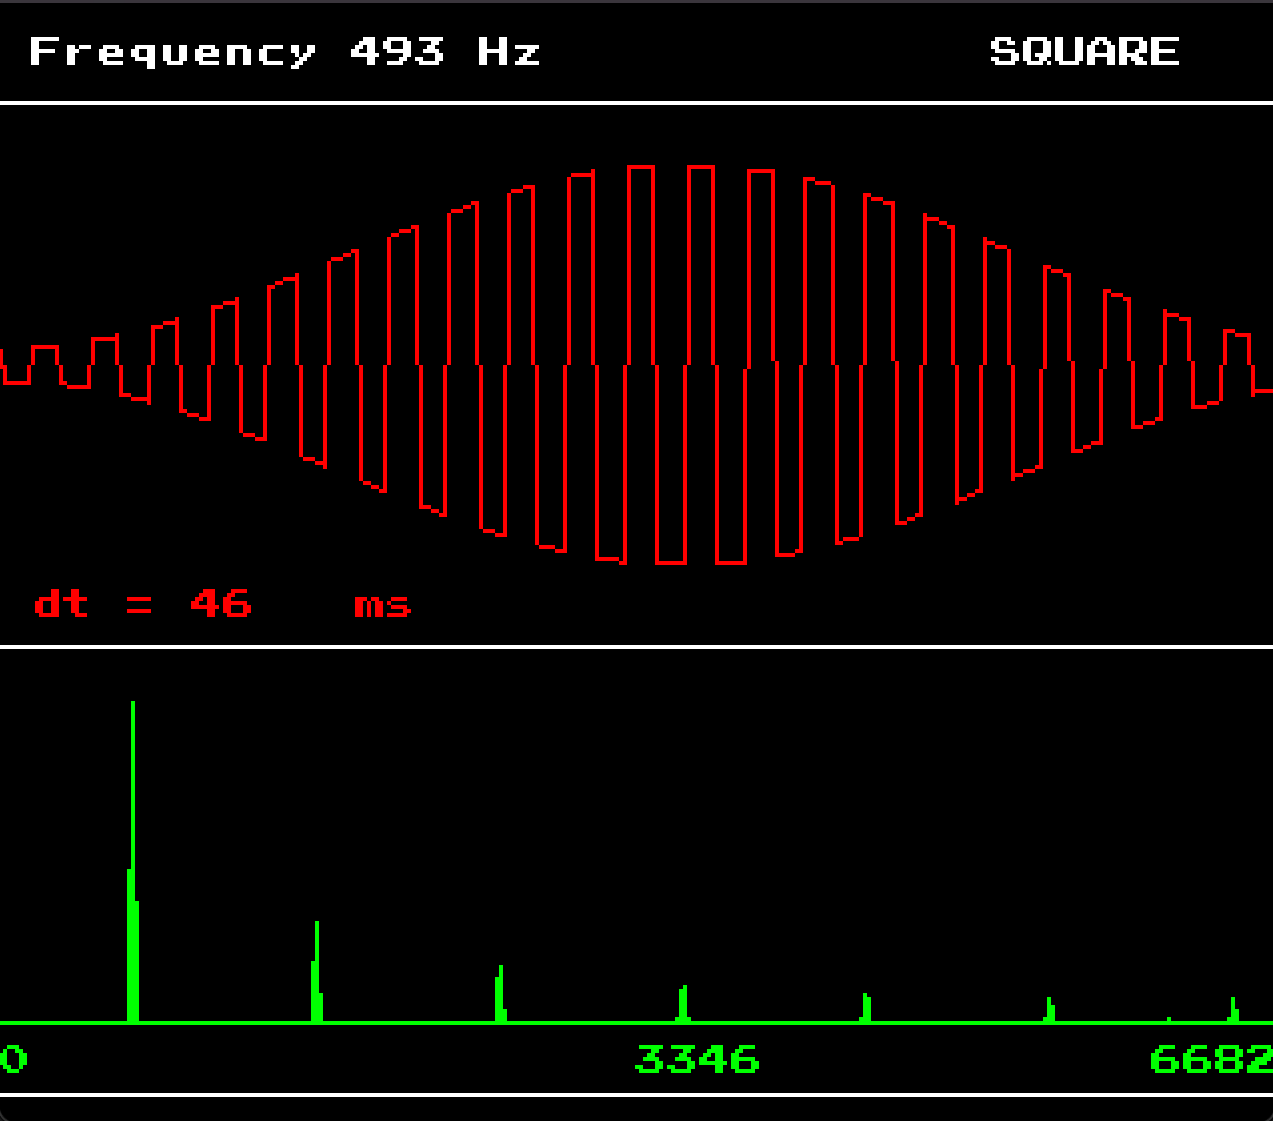
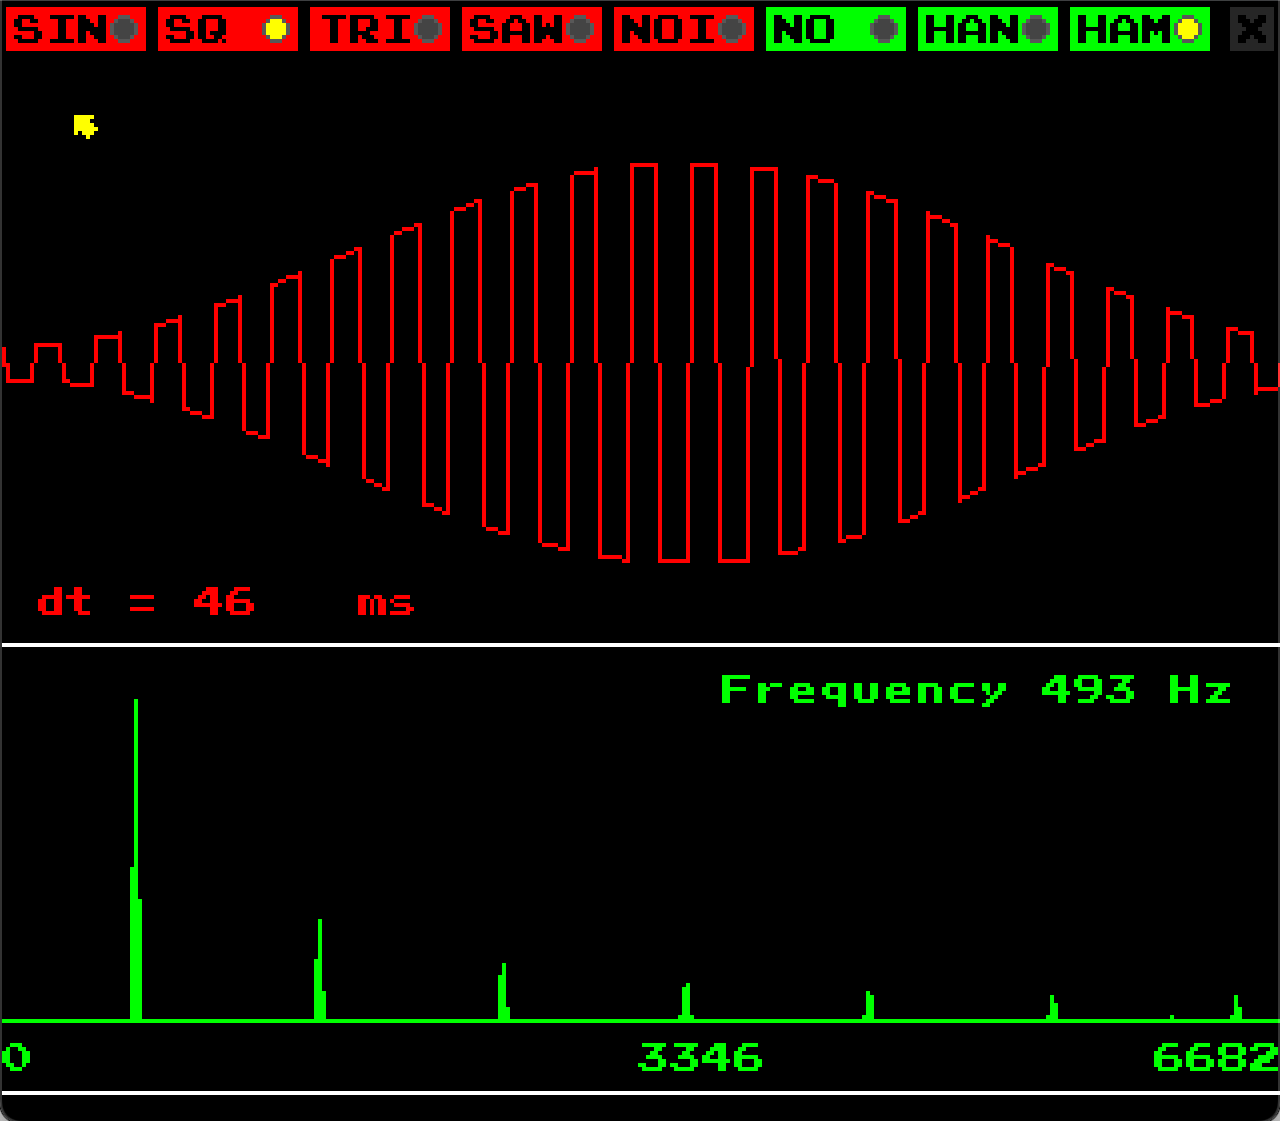
Add menu bar controls to Synth

diff --git a/Synth/Synth.h b/Synth/Synth.h
@@ -12,6 +12,7 @@
 
 #include "../Audio.h"
 #include "../GLGFX.h"
+#include "../Widgets.h"
 
 #include <cmath>
 extern "C" {
@@ -20,17 +21,22 @@ extern "C" {
 }
 #include <algorithm>
 
+bool wave_type_callback(cb::WidgetButton *button, void *userdata);
+bool window_type_callback(cb::WidgetButton *button, void *userdata);
+bool quit_callback(cb::WidgetButton *button, void *userdata);
+
+typedef struct {
+  float *ones;
+  float *hanning;
+  float *hamming;
+  float *window;
+} Windows;
 class Synth : public cb::Audio, public cb::GLGFX {
 
 public:
-  enum WAVE_T {
-    WAVE_NOISE,
-    WAVE_SQUARE,
-    WAVE_TRIANGLE,
-    WAVE_SAW,
-    WAVE_SINE,
-    WAVE_MAX
-  };
+  enum WAVE_T { WAVE_SINE, WAVE_SQUARE, WAVE_TRIANGLE, WAVE_SAW, WAVE_NOISE };
+
+  enum WINDOW_T { WINDOW_NONE, WINDOW_HANNING, WINDOW_HAMMING };
 
   Synth() {
 
@@ -49,20 +55,21 @@ public:
 
     sample = fftwf_alloc_real(sample_size);
 
-    ones = fftwf_alloc_real(sample_size);
-    std::fill_n(ones, sample_size, 1.0f);
+    windows.ones = fftwf_alloc_real(sample_size);
+    std::fill_n(windows.ones, sample_size, 1.0f);
 
-    hanning = fftwf_alloc_real(sample_size);
+    windows.hanning = fftwf_alloc_real(sample_size);
     for (int i = 0; i < sample_size; i++)
-      hanning[i] = 0.5f - 0.5f * std::cos(2.0f * M_PI * static_cast<float>(i) /
-                                          static_cast<float>(sample_size - 1));
-    hamming = fftwf_alloc_real(sample_size);
+      windows.hanning[i] =
+          0.5f - 0.5f * std::cos(2.0f * M_PI * static_cast<float>(i) /
+                                 static_cast<float>(sample_size - 1));
+    windows.hamming = fftwf_alloc_real(sample_size);
     for (int i = 0; i < sample_size; i++)
-      hamming[i] =
+      windows.hamming[i] =
           0.54f - 0.46f * std::cos(2.0f * M_PI * static_cast<float>(i) /
                                    static_cast<float>(sample_size - 1));
 
-    window = ones;
+    windows.window = windows.ones;
 
     fft = fftwf_alloc_complex(1 + sample_size / 2);
 
@@ -78,30 +85,67 @@ public:
 
   void OnUserDestroy() final {
     fftwf_free(sample);
-    fftwf_free(ones);
-    fftwf_free(hanning);
-    fftwf_free(hamming);
+    fftwf_free(windows.ones);
+    fftwf_free(windows.hanning);
+    fftwf_free(windows.hamming);
     fftw_free(fft);
     fftwf_destroy_plan(plan);
   }
 
-  bool OnUserCreate() final { return true; }
+  bool OnUserCreate() final {
+
+    cb::WidgetRadioGroup radio_wave_type, radio_window_type;
+
+    cb::WidgetButton button;
+    button.xpos = 0;
+    button.width = 37;
+    button.color = FG_RED;
+    button.border = FG_BLACK;
+    button.userdata = (void *)&wave_type;
+    button.callback = wave_type_callback;
+    for (const auto &text :
+         std::array<std::string, 5>({"SIN", "SQ", "TRI", "SAW", "NOI"})) {
+
+      button.text = text;
+
+      radio_wave_type.add(button);
+      button.xpos += button.width + 1;
+    }
+    radio_wave_type.select(WAVE_SINE);
+
+    button.color = FG_GREEN;
+    button.border = FG_BLACK;
+    button.userdata = (void *)&windows;
+    button.callback = window_type_callback;
+    for (const auto &text : std::array<std::string, 3>({"NO", "HAN", "HAM"})) {
+
+      button.text = text;
+
+      radio_window_type.add(button);
+      button.xpos += button.width + 1;
+    }
+    radio_window_type.select(WINDOW_NONE);
+
+    button.text = "X";
+    button.border = FG_BLACK;
+    button.color = FG_GREY5;
+    button.userdata = (void *)&finished;
+    button.callback = quit_callback;
+    button.width = 13;
+    button.xpos = ScreenWidth() - button.width - 1;
+    widgets.add(button);
+
+    widgets.glgfx = this;
+    widgets.add(radio_wave_type);
+    widgets.add(radio_window_type);
+
+    return true;
+  }
 
   bool OnUserUpdate(float fElapsedTime) final {
 
     if (KeyUp('q'))
-      return false;
-    for (int k = 0; k < WAVE_MAX; k++) {
-      if (KeyUp('1' + k)) {
-        wave_type = k;
-      }
-    }
-    if (KeyUp('0'))
-      window = ones;
-    if (KeyUp('9'))
-      window = hamming;
-    if (KeyUp('8'))
-      window = hanning;
+      finished = true;
     if (KeyUp('p'))
       bShowFPS = !bShowFPS;
 
@@ -116,22 +160,12 @@ public:
 
     Clear(FG_BLACK);
 
-    DrawString(8, 8, "Frequency");
-    DrawString(8 + 10 * 8, 8, std::to_string((int)frequency));
-    DrawString(8 + 10 * 8 + 4 * 8, 8, "Hz");
-
-    static constexpr const char *wave_str[] = {"NOISE", "SQUARE", "TRIANGLE",
-                                               "SAW", "SINE"};
-    DrawString(ScreenWidth() - 72, 8, wave_str[wave_type]);
-
-    DrawLine(0, 24, ScreenWidth() - 1, 24);
-
     short p, x0 = 0, y0 = 90, x1, y1;
 
     size_t step_size = sample_size / ScreenWidth();
     for (size_t i = 0; i < sample_size; i++) {
       callback((double)i, &p, sizeof(short));
-      sample[i] = static_cast<float>(p) * window[i];
+      sample[i] = static_cast<float>(p) * windows.window[i];
       if ((i % step_size) == 0) {
         x1 = i / step_size;
         y1 = 90 + (sample[i] / 20);
@@ -148,6 +182,10 @@ public:
     DrawString(8 + 5 * 8 + 5 * 8, 146, "ms", FG_RED);
 
     DrawLine(0, 160, ScreenWidth() - 1, 160);
+
+    DrawString(180, 168, "Frequency", FG_GREEN);
+    DrawString(180 + 10 * 8, 168, std::to_string((int)frequency), FG_GREEN);
+    DrawString(180 + 10 * 8 + 4 * 8, 168, "Hz", FG_GREEN);
 
     float fft_max = 1.0f;
     for (size_t i = 1; i < ((sample_size >> 1) + 1); i++) {
@@ -177,7 +215,9 @@ public:
 
     DrawLine(0, ScreenHeight() - 8, ScreenWidth() - 1, ScreenHeight() - 8);
 
-    return true;
+    widgets.update();
+
+    return !finished;
   }
 
   void Start() {
@@ -223,14 +263,13 @@ protected:
   };
 
 private:
+  cb::Widgets widgets;
   double frequency = 0.0;
   int wave_type = WAVE_SINE;
+  bool finished = false;
   static constexpr const size_t sample_size = 2048;
   static constexpr const float f_base = 440.0f;
-  float *ones;
-  float *hanning;
-  float *hamming;
-  float *window;
+  Windows windows;
   float *sample;
   size_t sample_min = 0;
   size_t sample_max = 0;
@@ -238,5 +277,50 @@ private:
   fftwf_plan plan;
   static constexpr const char *plan_filename = "plan.fftwf";
 };
+
+bool wave_type_callback(cb::WidgetButton *button, void *userdata) {
+
+  int *waveform = static_cast<int *>(userdata);
+
+  if (button->text == "SIN") {
+    *waveform = Synth::WAVE_SINE;
+  } else if (button->text == "SQ") {
+    *waveform = Synth::WAVE_SQUARE;
+  } else if (button->text == "TRI") {
+    *waveform = Synth::WAVE_TRIANGLE;
+  } else if (button->text == "SAW") {
+    *waveform = Synth::WAVE_SAW;
+  } else if (button->text == "NOI") {
+    *waveform = Synth::WAVE_NOISE;
+  } else {
+    return false;
+  }
+
+  return true;
+}
+
+bool window_type_callback(cb::WidgetButton *button, void *userdata) {
+
+  Windows *w = static_cast<Windows *>(userdata);
+
+  if (button->text == "NO") {
+    w->window = w->ones;
+  } else if (button->text == "HAN") {
+    w->window = w->hanning;
+  } else if (button->text == "HAM") {
+    w->window = w->hamming;
+  } else {
+    return false;
+  }
+
+  return true;
+}
+
+bool quit_callback(cb::WidgetButton *button, void *userdata) {
+
+  bool *finished = static_cast<bool *>(userdata);
+  *finished = true;
+  return true;
+}
 
 #endif // CBGLGFX_SYNTH_H

diff --git a/Synth/README.md b/Synth/README.md
@@ -1,6 +1,6 @@
 # Synth
 
-`Synth` is a sound synthesizer, visualizer, and spectral analyzer. It was inspired by a One Lone Coder [YouTube video](https://www.youtube.com/watch?v=tgamhuQnOkM)) ([GitHub](https://github.com/OneLoneCoder/synth)).
+`Synth` is a sound synthesizer, visualizer, and spectrum analyzer. It was inspired by a One Lone Coder [YouTube video](https://www.youtube.com/watch?v=tgamhuQnOkM) ([GitHub](https://github.com/OneLoneCoder/synth)).
 
 `Synth` is written using [`GL GFX`](../README.md) and relies on the [FFTW](http://fftw.org) library for spectral analysis.
 
@@ -21,21 +21,28 @@ This results in a binary executable called `Synth`, which is invoked as:
 ./Synth
 ```
 
-`Synth` relies on the keyboard for input. The table below lists the keys that are recognized and their associated action.
+`Synth` relies on both keyboard and mouse input. The table below lists the keys that
+are recognized and their associated action.
 
-|key|action|
-----|-----
-|`1`|noise generator|
-|`2`|square wave generator|
-|`3`|triangular wave generator|
-|`4`|sawtooth wave generator|
-|`5`|sine wave generator|
-|`8`|hanning window|
-|`9`|hamming window|
-|`0`|no window|
-|`z` `s` `x` `c` `f` `v` `g` `b` `n` `j` `m` `k` `,` `l` `.` `/`|piano keys 49-64|
-|`p`|show FPS|
-|`q`|quit|
+| key                                                             | action           |
+| --------------------------------------------------------------- | ---------------- |
+| `z` `s` `x` `c` `f` `v` `g` `b` `n` `j` `m` `k` `,` `l` `.` `/` | piano keys 49-64 |
+| `p`                                                             | show FPS         |
+| `q`                                                             | quit             |
+
+The menu items and their associated actions are listed in the following table.
+
+| item  | action                    |
+| ----- | ------------------------- |
+| `SIN` | sine wave generator       |
+| `SQ`  | square wave generator     |
+| `TRI` | triangular wave generator |
+| `SAW` | sawtooth wave generator   |
+| `NOI` | noise generator           |
+| `NO`  | no window                 |
+| `HAN` | hanning window            |
+| `HAM` | hamming window            |
+| `X`   | quit                      |
 
 ## Notes
 
